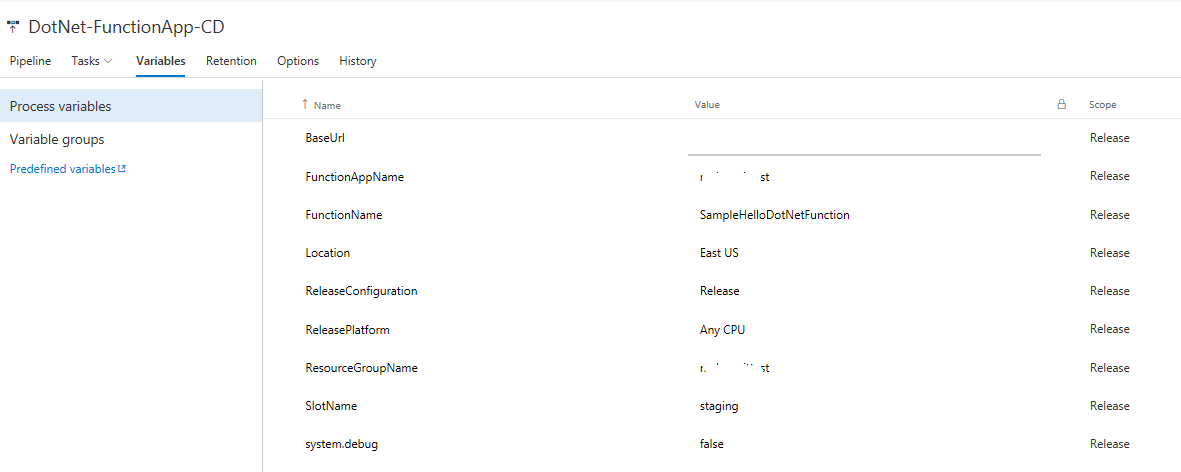
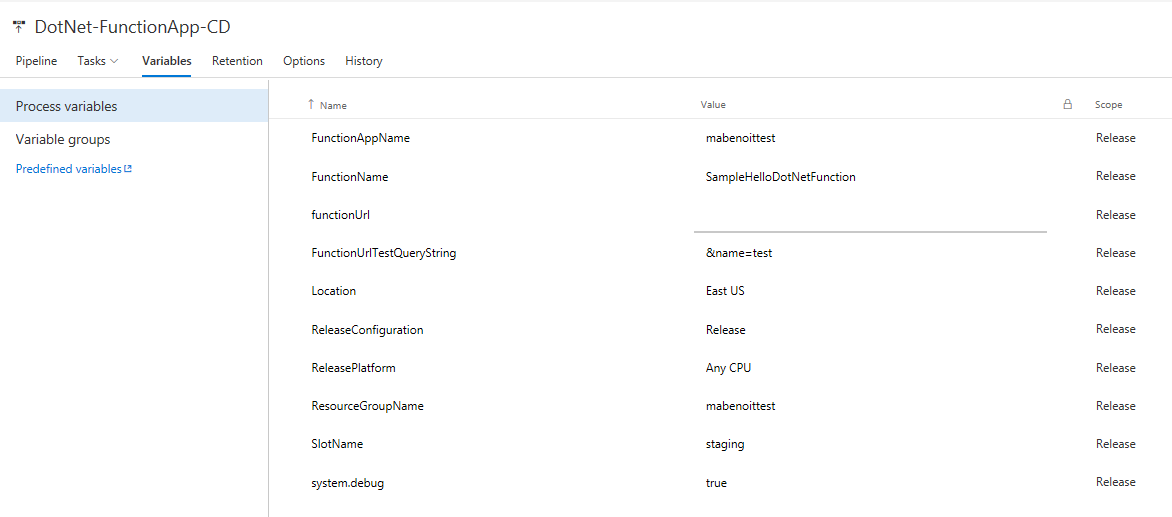
Finalize functionUrl integration.

diff --git a/test/DotNetFunction.IntegrationTests/SampleHelloDotNetFunctionTests.cs b/test/DotNetFunction.IntegrationTests/SampleHelloDotNetFunctionTests.cs
@@ -1,9 +1,7 @@
-using Newtonsoft.Json;
-using System;
+using System;
 using System.Configuration;
 using System.Net;
 using System.Net.Http;
-using System.Text;
 using System.Threading.Tasks;
 using Xunit;
 
